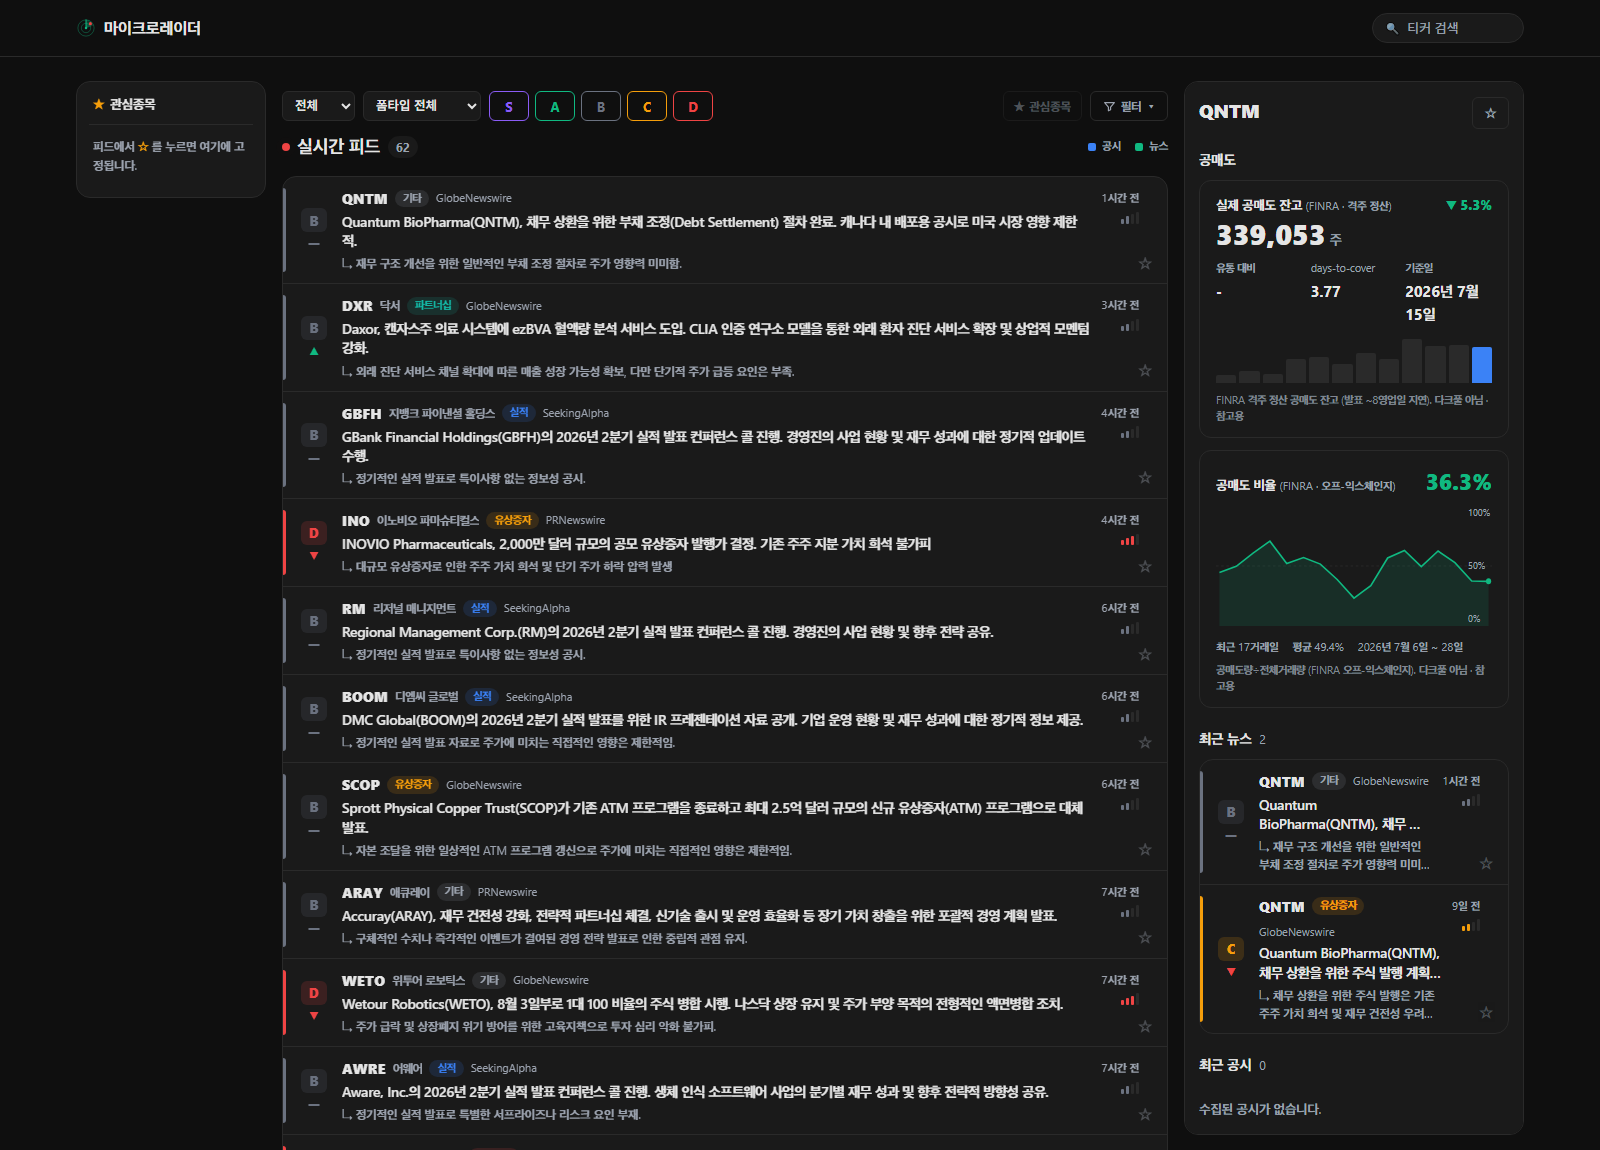
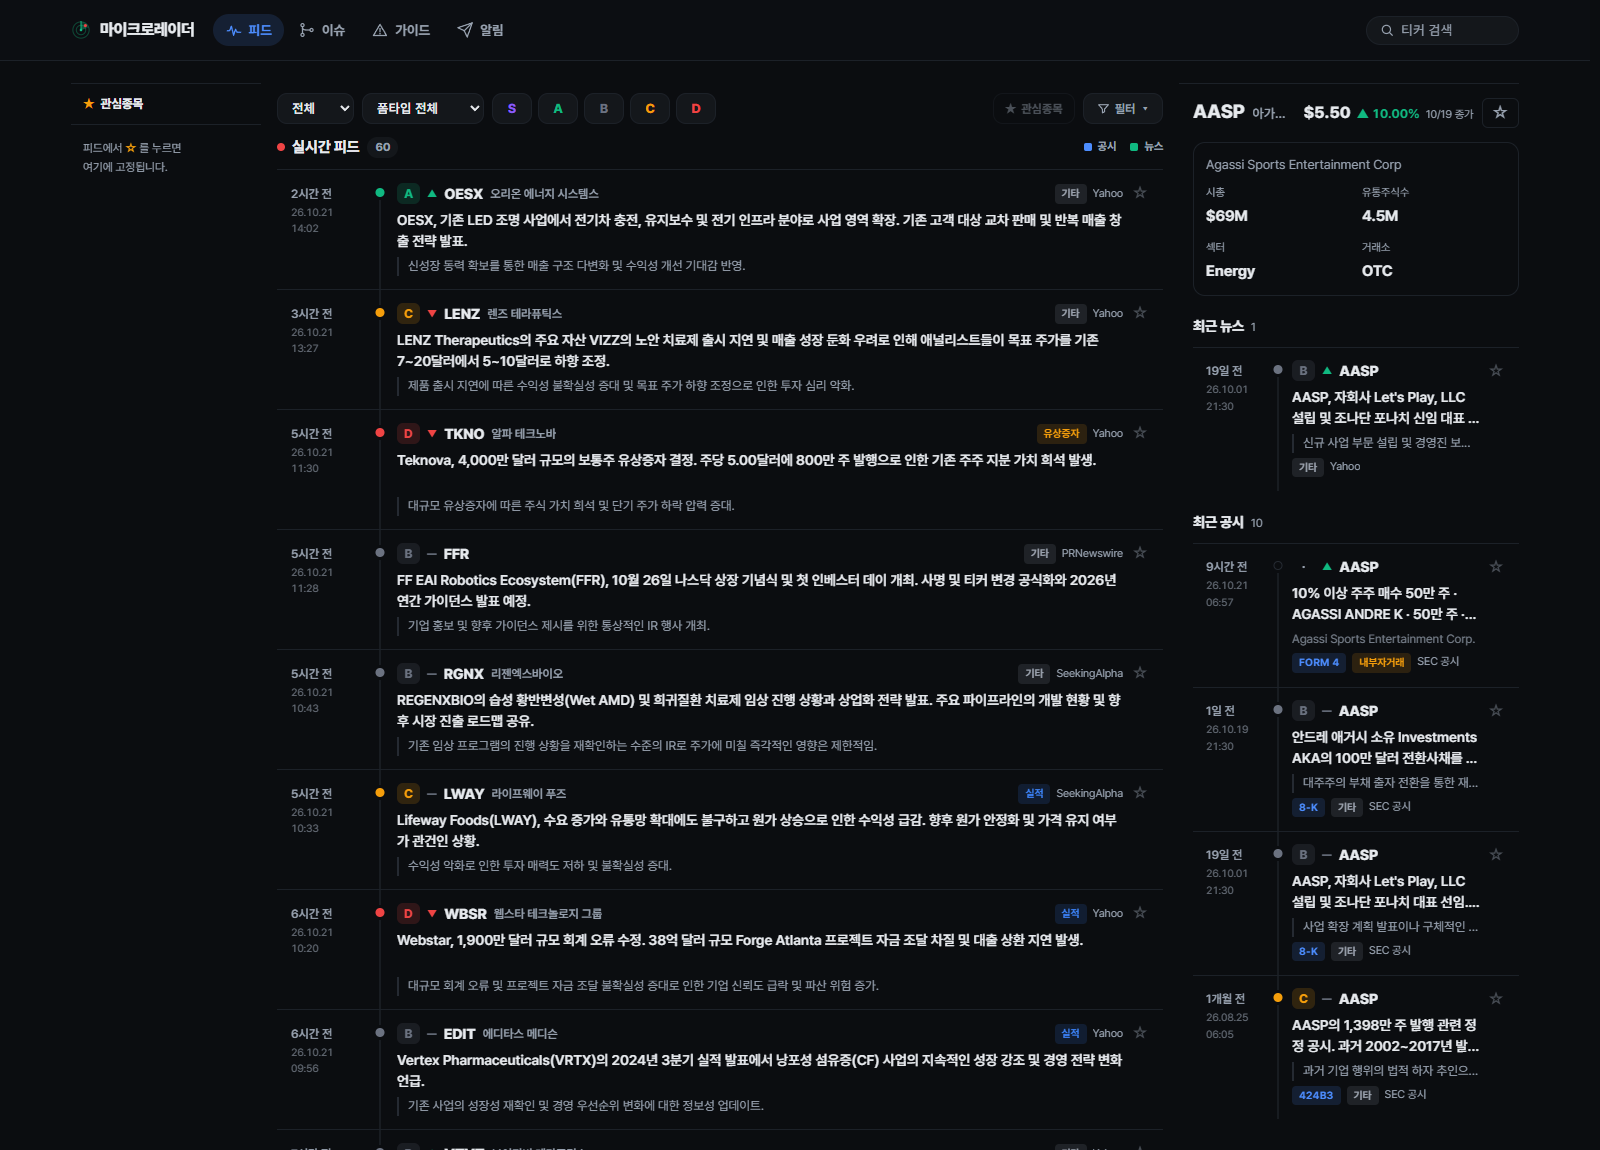
마이크로레이더 최신 기능 반영 및 스크린샷 리뉴얼
- 스크린샷: 피드(PC) · 모바일 · 종목 상세를 9월 UI 개편 이후 화면으로 교체, 이슈 탭 화면 추가
- AI Pipeline: 모델 분리 서술 정정(분석 · 음역 동일 모델 한도 공유), 뉴스 · 공시 발행 최신순 단일 큐, quotaId 기반 429 분류, 이슈 탭(AI 추가 호출 0) 섹션 추가
- Data Collection: FINRA 화면 제거 · 수집 유지 반영, 종목 상세 캡션 갱신
- System Design: 테이블 12개 · 워커 13종, 거래정지 감지 · 텔레그램 봇 워커 추가
- Realtime · Security: 필터 상태 새 소식 누락 보정, 보안 헤더 · soft 404 차단
- Tech Stack · Timeline: 8~10월 기능 반영(텔레그램 봇, 이슈 · 실적 탭, 사전 렌더링 · 동적 사이트맵 등)
- 상세 히어로 설명 모바일 글자 크기 0.8rem

diff --git a/Works/src/data/projects.js b/Works/src/data/projects.js
@@ -800,7 +800,7 @@ End If`,
       issue: {
         icon: "🧱",
         label: "1GB 단일 VM · 무료 티어 제약",
-        desc: "프리티어 1GB VM 한 대에 API·DB·캐시·워커 6종을 전부 올려야 하는 구조 — 메모리 여유·외부 API 호출 한도·오리진 노출까지 한 번에 설계해야 했다",
+        desc: "프리티어 1GB VM 한 대에 API·DB·캐시·워커 13종을 전부 올려야 하는 구조 — 메모리 여유·외부 API 호출 한도·오리진 노출까지 한 번에 설계해야 했다",
       },
       solution:
         "역할별로 계층을 끊고 각 계층에서 새는 자원을 막는 방식으로 설계. Cloudflare가 오리진을 가리고 트래픽을 흡수, Nginx가 SSE만 버퍼링을 끄고 나머지는 정적 캐시, Node는 단일 프로세스에 워커를 태우되 폴링 주기를 외부 API 한도에서 역산, Redis는 영구 저장이 아니라 중복 제거·카운터·캐시 전용으로만 사용.",
@@ -826,18 +826,18 @@ End If`,
         {
           tier: "APP",
           name: "Node.js + Express (PM2 :4000)",
-          desc: "REST · SSE 브로드캐스터 · 폴링 워커 6종 · node-cron 배치. 127.0.0.1 바인딩으로 Nginx만 접근",
+          desc: "REST · SSE 브로드캐스터 · 백그라운드 워커 13종(수집 · AI 큐 · 텔레그램 봇 · 배치). 127.0.0.1 바인딩으로 Nginx만 접근",
           accent: "rgba(0,242,96,0.6)",
         },
         {
           tier: "DATA",
           name: "MySQL 8 · Redis",
-          desc: "MySQL은 영구 저장(7 테이블) · Redis는 중복 제거·카운터·캐시 전용. 둘 다 127.0.0.1 바인딩",
+          desc: "MySQL은 영구 저장(12 테이블) · Redis는 중복 제거·카운터·캐시 전용. 둘 다 127.0.0.1 바인딩",
           accent: "rgba(190,120,255,0.6)",
         },
         {
           tier: "EXTERNAL",
-          name: "SEC EDGAR · PR 와이어 · Finnhub · FINRA · Gemini",
+          name: "SEC EDGAR · PR 와이어 · Finnhub · FINRA · Gemini · Telegram",
           desc: "전부 무료 티어 — 각 API의 한도가 곧 폴링 주기 설계 제약이 된다",
           accent: "rgba(255,80,80,0.6)",
         },
@@ -846,7 +846,9 @@ End If`,
         ["prWirePoller", "30초", "GlobeNewswire·PRNewswire·Newsfile 1차 보도자료"],
         ["finnhubPoller", "1분", "종목 뉴스 + 시총·플로트 메타 갱신"],
         ["secPoller", "2분", "SEC 8-K·S-1·S-3·424B·SC 13D 공시 감지"],
-        ["aiQueue", "72초", "Gemini 분석 큐 (일일 한도 내 최신순 처리)"],
+        ["aiQueue", "72초", "Gemini 분석 큐 (뉴스 · 공시 발행 최신순 한 줄)"],
+        ["haltPoller", "1분", "나스닥 RSS 거래정지 감지"],
+        ["telegramBot", "롱폴링", "S · A 등급 즉시 알림 · /start · /stop 구독"],
         ["translitSync", "30분", "기업명 한글 음역 (티커당 1회, 영구 저장)"],
         ["cikSync · retryBatch", "일 1회", "CIK↔티커 매핑 동기화 · 스킵분 재처리"],
       ],
@@ -919,7 +921,7 @@ location / {
           name: "공매도 잔고 · 일별 비율 · 인도실패",
           cycle: "일 1회",
           color: "#be78ff",
-          desc: "종목 상세의 보조 지표. 압축 파일을 외부 의존성 없이 zlib으로 직접 해제·파싱하고 유니버스 종목만 적재",
+          desc: "화면 표시는 2026.09에 제거(3주 묵은 잔고 · 평상시에도 63% 종목에 경고색), 수집은 유지 — 유일한 거래량 시계열이라 AI 등급 검증 분석에 쓴다. 압축 파일은 외부 의존성 없이 zlib으로 직접 해제",
         },
       ],
       flowSteps: [
@@ -934,7 +936,7 @@ location / {
       screenshot: {
         src: "/media/microradar-stock.png",
         caption:
-          "종목 상세 — 4개 소스(PR 뉴스 · SEC 공시 · Finnhub 메타 · FINRA 공매도)가 한 종목으로 모인 화면",
+          "종목 상세 — Finnhub 메타(시총 · 유통주식수 · 섹터 · 거래소)와 보도자료 · 매체 뉴스 · SEC 공시가 AI 등급 · 한국어 요약과 함께 한 종목으로 모인 화면",
       },
       dedup: [
         {
@@ -1057,7 +1059,7 @@ const body = await fetchFilingBody(url);`,
         desc: "무료 한도 안에서 돌던 분석 큐가 429로 멈추고 재개되지 않았다. 원인이 하나가 아니라 모델 별칭 · 정지 시간 · 카운터 기준 세 곳에 동시에 있었다.",
       },
       solution:
-        "429를 \"한도 초과\" 한 덩어리로 보지 않고 원인을 셋으로 분해해 각각 고쳤다. 더불어 무료 한도가 모델별로 독립이라는 점을 이용해 뉴스 분석과 기업명 음역에 서로 다른 모델을 배정 — 한쪽이 다른 쪽의 한도를 갉아먹지 않는 구조로 분리했다.",
+        "429를 \"한도 초과\" 한 덩어리로 보지 않고 원인을 셋으로 분해해 각각 고쳤다. 분석과 기업명 음역이 같은 모델의 하루 500건을 나눠 쓰므로, 음역은 티커당 1회만 호출해 영구 저장하고 이슈 · 실적 탭은 이미 붙은 등급 · 분류를 재활용해 AI 호출을 한 건도 늘리지 않는다.",
       rootCauses: [
         {
           badge: "01 · MODEL",
@@ -1080,7 +1082,7 @@ const body = await fetchFilingBody(url);`,
       ],
       quota: [
         { value: "500", label: "무료 RPD / 모델" },
-        { value: "2", label: "모델 분리 운영" },
+        { value: "0", label: "이슈 탭 추가 호출" },
         { value: "330", label: "실사용 / 일" },
         { value: "$0", label: "AI 비용", highlight: true },
       ],
@@ -1113,22 +1115,31 @@ const body = await fetchFilingBody(url);`,
         {
           icon: "🔀",
           label: "429는 한 덩어리가 아니다",
-          desc: "분당 한도(RPM)는 지수 백오프 재시도, 일일 한도(RPD)는 -1 스킵 후 새벽 배치 복원, 지출 상한은 큐 일시정지.\n하나로 묶어 처리하면 무한 재시도에 빠진다 — 실제로 3일간 같은 항목을 재시도한 사고가 있었다.",
+          desc: "분당 한도(RPM)는 지수 백오프 재시도, 일일 한도(RPD)는 -1 스킵 후 새벽 배치 복원, 지출 상한은 큐 일시정지.\n하나로 묶으면 무한 재시도에 빠진다(3일간 같은 항목 재시도 사고). 두 한도는 같은 문구로 오므로 응답의 quotaId(PerDay / PerMinute)로 가른다 — 문구로 가르다 분당 초과를 하루 소진으로 보고 큐를 1시간 세운 적이 있다.",
           accent: "rgba(100,160,255,0.3)",
         },
         {
           icon: "⏱",
-          label: "최신순 처리 (id DESC)",
-          desc: "오래된 것부터 처리하면 방금 들어온 뉴스가 큐 맨 뒤에서 대기한다.\n최신순으로 뒤집어 새 뉴스가 수십 초 안에 등급을 받는다.",
+          label: "뉴스 · 공시를 발행 최신순 한 줄로",
+          desc: "오래된 것부터 처리하면 방금 들어온 뉴스가 큐 맨 뒤에서 대기한다.\n뉴스를 다 소화한 뒤에야 공시를 집던 구조라 가장 빠른 신호인 SEC 공시가 평균 7.3시간 밀렸다 → 둘을 발행 최신순 한 줄로 합쳐 신선한 쪽부터 처리(추가 호출 0).",
           accent: "rgba(0,242,96,0.25)",
         },
         {
           icon: "🇰🇷",
           label: "기업명 한글 음역 분리",
-          desc: "무료 번역기는 브랜드명을 뜻으로 옮긴다(High Tide → \"바닷물\").\n음역 전용 모델로 티커당 1회만 호출해 영구 저장 — 1,191종목 일괄 백필.",
+          desc: "무료 번역기는 브랜드명을 뜻으로 옮긴다(High Tide → \"바닷물\").\n분석과 같은 모델의 한도를 나눠 쓰므로 티커당 1회만 호출해 영구 저장 — 1,191종목 일괄 백필.",
           accent: "rgba(190,120,255,0.3)",
         },
       ],
+      reuse: {
+        label: "AI 추가 호출 없는 재활용 — 이슈 탭",
+        desc: "이미 붙은 등급 · 분류를 종목별로 묶어 주식 병합 · 인수합병 · 티커 변경 · 실적 · 어닝콜 탭을 만든다. 병합 비율 · 효력일 · 티커 변경은 규칙으로 추출하고(단위 테스트 123건), 티커 변경은 정답 51건과 대조해 새 기호 41/42 · 오탐 0을 확인했다.",
+        screenshot: {
+          src: "/media/microradar-issues.png",
+          caption: "이슈 탭 — 주식 병합 · 인수합병 · 티커 변경 · 실적 · 어닝콜 (D-day · 비율 · 원문 근거)",
+          h: "480px",
+        },
+      },
       samples: [
         {
           ticker: "INO",
@@ -1220,12 +1231,12 @@ if (res.status === 429) {
         {
           src: "/media/microradar-feed.png",
           caption:
-            "실시간 피드 — 좌 관심종목 · 중앙 피드(등급 컬러바 · 방향 · 카테고리) · 우 인라인 종목 상세",
+            "실시간 피드 — 좌 관심종목 · 중앙 시간 열 타임라인 피드(등급 · 방향 · 카테고리 · 출처) · 우 인라인 종목 상세",
           h: "470px",
         },
         {
           src: "/media/microradar-mobile.png",
-          caption: "모바일 — 등급 한 줄 · 더보기 접기",
+          caption: "모바일 — 하단 메뉴바(피드 · 이슈 · 관심 · 가이드 · 알림) · 더보기 접기",
           h: "470px",
         },
       ],
@@ -1245,7 +1256,7 @@ if (res.status === 429) {
         {
           icon: "🔎",
           label: "클라이언트 필터 재검사",
-          desc: "SSE 항목은 서버 필터를 우회해 피드 맨 앞에 꽂히는 경로다.\n검사가 없으면 \"등급 S만 보는 중인데 방금 수집돼 grade=null인 항목이 올라오는\" 현상이 생긴다.",
+          desc: "SSE 항목은 서버 필터를 우회해 피드 맨 앞에 꽂히는 경로다.\n검사가 없으면 \"등급 S만 보는 중인데 grade=null 항목이 올라오는\" 현상이 생긴다. 반대로 걸러진 항목은 나중에 등급이 붙어도 고칠 대상이 없어 사라졌다 → 목록에 없는 id의 등급 갱신이 오면 맨 위 한 페이지를 4초 묶음으로 다시 받아 끼워 넣는다.",
           accent: "rgba(255,160,60,0.3)",
         },
         {
@@ -1338,6 +1349,11 @@ window.addEventListener('online', revive);`,
           desc: "Gemini·Finnhub 등 모든 외부 호출은 서버에서만 수행. 프론트 번들에 키가 포함되지 않으며 브라우저 네트워크 탭에 외부 API 호출이 노출되지 않는다.",
           accent: "rgba(255, 150, 50, 0.4)",
         },
+        {
+          label: "보안 헤더 · soft 404 차단",
+          desc: "Nginx에 CSP · HSTS · Referrer-Policy · Permissions-Policy 추가로 외부 스캔 High 2 · Low 2 해소. 없는 경로가 200(index.html)을 돌려주던 SPA soft 404를 허용 경로 화이트리스트로 실제 404 처리.",
+          accent: "rgba(255, 150, 50, 0.3)",
+        },
       ],
     },
 
@@ -1348,11 +1364,14 @@ window.addEventListener('online', revive);`,
           "React 18",
           "TypeScript",
           "Vite",
+          "React Router",
           "TanStack Query",
+          "Query 영속 캐시 (localStorage)",
           "Zustand",
           "styled-components",
           "EventSource (SSE)",
           "무한스크롤 · 스켈레톤",
+          "Pretendard 자체 호스팅",
         ],
       },
       {
@@ -1365,7 +1384,9 @@ window.addEventListener('online', revive);`,
           "node-cron",
           "Helmet",
           "express-rate-limit",
+          "axios",
           "SSE 브로드캐스터",
+          "Telegram Bot API (롱폴링)",
         ],
       },
       {
@@ -1377,6 +1398,7 @@ window.addEventListener('online', revive);`,
           "오프셋 페이징",
           "INSERT IGNORE 멱등 수집",
           "isProcessed 상태 머신",
+          "Redis 집계 (방문 · 유입 분석)",
         ],
       },
       {
@@ -1398,6 +1420,8 @@ window.addEventListener('online', revive);`,
           "Nginx",
           "PM2",
           "Cloudflare (Origin Cert · WAF)",
+          "Cloudflare Web Analytics",
+          "보안 헤더 (CSP · HSTS)",
           "iptables",
           "배포 스크립트",
           "Vitest",
@@ -1406,10 +1430,13 @@ window.addEventListener('online', revive);`,
       {
         category: "SEO & 접근성",
         items: [
+          "크롤러용 사전 렌더링",
+          "동적 사이트맵 (2,772 URL)",
+          "Google Search Console",
           "Open Graph · Twitter Card",
           "JSON-LD",
           "canonical",
-          "robots · sitemap",
+          "robots.txt",
           "prefers-reduced-motion",
           "WCAG 확대 허용",
         ],
@@ -1445,7 +1472,7 @@ window.addEventListener('online', revive);`,
       {
         date: "2026.07.20",
         content: "대시보드 · 종목 상세 고도화",
-        detail: "3열 레이아웃, 인라인 종목 상세, 공매도 · 인도실패 차트, 관심종목 동선 정리",
+        detail: "3열 레이아웃 · 인라인 종목 상세, Newsfile 보도자료 소스 추가, 관심종목 동선 정리",
       },
       {
         date: "2026.07.23",
@@ -1453,9 +1480,24 @@ window.addEventListener('online', revive);`,
         detail: "모델 고정 · PT 리셋 정렬 · 정지 단축으로 백로그 517건 해소, 다국어 중복 차단",
       },
       {
-        date: "2026.08 — 09",
-        content: "알림 · 이벤트 기능 확장",
-        detail: "텔레그램 S · A 등급 즉시 알림 봇, 인수합병 · 액면병합 · 티커 변경 탭, UI 전면 개편",
+        date: "2026.08.24",
+        content: "텔레그램 알림 봇",
+        detail: "S · A 등급 즉시 푸시(회원가입 없이 chat_id 구독), CSP · HSTS 보안 헤더 적용",
+      },
+      {
+        date: "2026.09.16",
+        content: "이슈 탭 · UI 전면 개편",
+        detail: "주식 병합 · 인수합병 · 티커 변경 탭(AI 추가 호출 0), 시간 열 피드 · 모바일 하단 메뉴바",
+      },
+      {
+        date: "2026.09.23",
+        content: "AI 큐 · 피드 정합성",
+        detail: "뉴스 · 공시 발행 최신순 단일 큐로 공시 대기 평균 7.3시간 해소, 429 종류 quotaId로 분류",
+      },
+      {
+        date: "2026.09.29",
+        content: "검색 노출 · 실적 탭",
+        detail: "크롤러용 사전 렌더링 · 동적 사이트맵 2,772개, 늦게 도착한 뉴스 473건 복구, 실적 · 어닝콜 탭",
       },
       {
         date: "2026.10 현재",

diff --git a/Works/src/pages/ProjectDetail.jsx b/Works/src/pages/ProjectDetail.jsx
@@ -1215,7 +1215,7 @@ const HeroSubtitle = styled.p`
   animation: ${fadeUp} 0.8s 0.2s ease both;
   @media (max-width: 768px) {
     margin-top: 1.5rem;
-    font-size: 0.92rem;
+    font-size: 0.8rem;
   }
 `;
 
@@ -3148,7 +3148,7 @@ const DisclaimerNote = styled.div`
   font-family: ${C.mono};
 `;
 
-const AiPipelineSection = ({ data }) => (
+const AiPipelineSection = ({ data, onImgClick }) => (
   <Section id="ai">
     <SubLabel $withLine mb="1.5rem">
       AI Pipeline — 무료 한도 안에서 매일 돌리는 등급 분석
@@ -3174,6 +3174,18 @@ const AiPipelineSection = ({ data }) => (
 
     <SubLabel>운영에서 얻은 규칙</SubLabel>
     <FeatureCards items={data.features} />
+
+    {data.reuse && (
+      <>
+        <SubLabel>{data.reuse.label}</SubLabel>
+        <ProseText size="0.88rem" m="0 0 1.2rem">
+          {data.reuse.desc}
+        </ProseText>
+        <div style={{ marginBottom: "2rem" }}>
+          <ShotBox shot={data.reuse.screenshot} onImgClick={onImgClick} />
+        </div>
+      </>
+    )}
 
     <SubLabel>실제 서비스 출력</SubLabel>
     <div
@@ -3305,7 +3317,7 @@ const renderSection = (sectionId, project, openLightbox) => {
         <CollectionSection data={project.collect} onImgClick={openLightbox} />
       );
     case "ai":
-      return <AiPipelineSection data={project.ai} />;
+      return <AiPipelineSection data={project.ai} onImgClick={openLightbox} />;
     case "realtime":
       return (
         <RealtimeSection data={project.realtime} onImgClick={openLightbox} />
